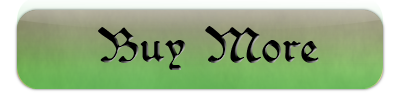
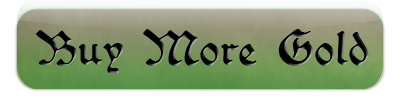
updated store to display available gold and allow purchase of gold

diff --git a/Classes/Views/Inventory/StoreViewController.m b/Classes/Views/Inventory/StoreViewController.m
@@ -11,6 +11,7 @@
 #import "ViewControllerManager.h"
 #import "StoreTopLauncherView.h"
 #import "TouchImageView.h"
+#import "TouchAreaView.h"
 #import "CellUtils.h"
 #import "StoreItemCell.h"
 #import "NavigationLauncherView.h"
@@ -34,6 +35,10 @@
 @synthesize itemsView;
 @synthesize sellImage;
 @synthesize buyImage;
+@synthesize modeView;
+@synthesize goldView;
+@synthesize buyGoldView;
+@synthesize goldLabel;
 @synthesize containerView;
 @synthesize storeTopLauncherView;
 @synthesize storeMode;
@@ -51,10 +56,24 @@
 //-----------------------------------------------------------------------------------------------------------------------------------
 - (id)initWithNibName:(NSString *)nibNameOrNil bundle:(NSBundle *)nibBundleOrNil inView:(UIView*)_containerView {
     if ((self = [super initWithNibName:nibNameOrNil bundle:nibBundleOrNil])) {
+        CGFloat viewWidth =  self.view.frame.size.width;
+        CGFloat viewHeight = self.view.frame.size.height;
         self.containerView = _containerView;
         self.buyImage = [UIImage imageNamed:@"store-buy-button.png"];
         self.sellImage = [UIImage imageNamed:@"store-sell-button.png"];
         self.storeMode = StoreModeBuy;
+        self.goldLabel.font = [UIFont fontWithName:kGLOBAL_FONT size:20.0];
+        CGRect goldFrame = CGRectMake(0.0, 0.0969*viewHeight, 0.3125*viewWidth, 0.1406*viewHeight);
+        self.goldView = [TouchAreaView createWithFrame:goldFrame name:@"gold" andDelegate:self];
+        [self.view addSubview:self.goldView];
+        CGRect buyGoldFrame = CGRectMake(0.6641*viewWidth, 0.0969*viewHeight, 0.3281*viewWidth, 0.1406*viewHeight);
+        self.buyGoldView = [TouchAreaView createWithFrame:buyGoldFrame name:@"buy-gold" andDelegate:self];
+        [self.view addSubview:self.buyGoldView];
+        CGRect modeFrame = CGRectMake(0.3312*viewWidth, 0.1250*viewHeight, 0.3123*viewWidth, 0.0885*viewHeight);
+        self.modeView = [TouchImageView createWithFrame:modeFrame name:@"mode" andDelegate:self];
+        self.modeView.contentMode = UIViewContentModeScaleAspectFit; 
+        self.modeView.image = self.buyImage;
+        [self.view addSubview:self.modeView];
         self.view.frame = self.containerView.frame;
     }
     return self;
@@ -96,15 +115,43 @@
     if ([_name isEqualToString:@"back"]) {
         [self.view removeFromSuperview];
         [[ViewControllerManager instance] showInventoryView:self.containerView];
-    } else if ([_name isEqualToString:@"mode"]) {
+    } 
+}
+
+//===================================================================================================================================
+#pragma mark TouchAreaView Delegate
+
+//-----------------------------------------------------------------------------------------------------------------------------------
+- (void)viewTouched:(TouchAreaView*)touchedView {
+    if ([touchedView.viewName isEqualToString:@"gold"]) {
+        [[ViewControllerManager instance] showGoldView:self.view];
+    } else if ([touchedView.viewName isEqualToString:@"buy-gold"]) {
+        [[ViewControllerManager instance] showGoldView:self.view];
+    }
+}
+
+//===================================================================================================================================
+#pragma mark TouchImageView Delegate
+
+//-----------------------------------------------------------------------------------------------------------------------------------
+- (void)imageTouched:(TouchImageView*)touchedView {
+    if ([touchedView.viewName isEqualToString:@"mode"]) {
         if (self.storeMode == StoreModeBuy) {
             self.storeMode = StoreModeSell;
-            self.storeTopLauncherView.modeLauncher.image = self.sellImage;
+            self.modeView.image = self.sellImage;
         } else {
             self.storeMode = StoreModeBuy;
-            self.storeTopLauncherView.modeLauncher.image = self.buyImage;
+            self.modeView.image = self.buyImage;
         }
     }
+}
+
+//===================================================================================================================================
+#pragma mark GoldViewDelegate 
+
+//-----------------------------------------------------------------------------------------------------------------------------------
+- (void)setGoldValue {
+    self.goldLabel.text = @"999p";
 }
 
 //===================================================================================================================================
@@ -152,7 +199,6 @@
     self.itemsView.separatorColor = [UIColor blackColor];
     [NavigationLauncherView inView:self.view withImageNamed:@"map-navigation-launcher.png" andDelegate:self];
     self.storeTopLauncherView = [StoreTopLauncherView inView:self.view andDelegate:self];
-    self.storeTopLauncherView.modeLauncher.image = self.buyImage;
     [super viewDidLoad];
 }
 
@@ -160,6 +206,7 @@
 - (void)viewWillAppear:(BOOL)animated {
     [self loadAccount];
     [self loadItems];
+    [self setGoldValue];
     [self addXMPPClientDelgate];
     [super viewWillAppear:animated];
 }

diff --git a/Classes/Views/Inventory/StoreViewController.h b/Classes/Views/Inventory/StoreViewController.h
@@ -10,10 +10,13 @@
 #import <UIKit/UIKit.h>
 #import "NavigationLauncherView.h"
 #import "StoreTopLauncherView.h"
+#import "GoldViewController.h"
 
 //-----------------------------------------------------------------------------------------------------------------------------------
 @class AccountModel;
 @class StoreTopLauncherView;
+@class TouchImageView;
+@class TouchAreaView;
 
 //-----------------------------------------------------------------------------------------------------------------------------------
 typedef enum storeMode {
@@ -22,8 +25,12 @@ typedef enum storeMode {
 } StoreModeType;
 
 /////////////////////////////////////////////////////////////////////////////////////////////////////////////////////////////////////
-@interface StoreViewController : UIViewController <UITableViewDelegate, UITableViewDataSource, NavigationLauncherViewDelegate, LauncherViewDelegate> {
+@interface StoreViewController : UIViewController <UITableViewDelegate, UITableViewDataSource, NavigationLauncherViewDelegate, LauncherViewDelegate, GoldViewDelegate> {
     IBOutlet UITableView* itemsView;
+    IBOutlet UILabel* goldLabel;
+    TouchImageView* modeView;
+    TouchAreaView* goldView;
+    TouchAreaView* buyGoldView;    
     UIImage* sellImage;
     UIImage* buyImage;
     UIView* containerView;
@@ -37,6 +44,10 @@ typedef enum storeMode {
 @property (nonatomic, retain) UITableView* itemsView;
 @property (nonatomic, retain) UIImage* sellImage;
 @property (nonatomic, retain) UIImage* buyImage;
+@property (nonatomic, retain) TouchImageView* modeView;
+@property (nonatomic, retain) TouchAreaView* goldView;
+@property (nonatomic, retain) TouchAreaView* buyGoldView;
+@property (nonatomic, retain) UILabel* goldLabel;
 @property (nonatomic, retain) UIView* containerView;
 @property (nonatomic, retain) StoreTopLauncherView* storeTopLauncherView;;
 @property (nonatomic, assign) StoreModeType storeMode;

diff --git a/Classes/Views/Inventory/StoreTopLauncherView.m b/Classes/Views/Inventory/StoreTopLauncherView.m
@@ -21,7 +21,6 @@
 
 //-----------------------------------------------------------------------------------------------------------------------------------
 @synthesize backLauncher;
-@synthesize modeLauncher;
 
 //===================================================================================================================================
 #pragma mark StoreTopLauncherView PrivateAPI
@@ -43,11 +42,6 @@
         CGRect backFrame = CGRectMake(0.0234*viewWidth, 0.0, 0.2109*viewWidth, viewHeight);
         self.backLauncher = [TouchAreaView createWithFrame:backFrame name:@"back" andDelegate:self];
         [self addSubview:self.backLauncher];
-        CGRect modeLauncherFrame = CGRectMake(0.7672*viewWidth, 0.05*viewHeight, 0.2062*viewWidth, 0.6800*viewHeight);
-        self.modeLauncher = [TouchImageView createWithFrame:modeLauncherFrame name:@"mode" andDelegate:self];
-        self.modeLauncher.contentMode = UIViewContentModeScaleToFill; 
-        self.modeLauncher.image = [UIImage imageNamed:@"store-buy-button.png"];
-        [self addSubview:self.modeLauncher];
         [_view addSubview:self];
     }
     return self;

diff --git a/Classes/Views/Inventory/StoreTopLauncherView.h b/Classes/Views/Inventory/StoreTopLauncherView.h
@@ -12,17 +12,14 @@
 
 //-----------------------------------------------------------------------------------------------------------------------------------
 @class TouchAreaView;
-@class TouchImageView;
 
 /////////////////////////////////////////////////////////////////////////////////////////////////////////////////////////////////////
 @interface StoreTopLauncherView : LauncherView {
     TouchAreaView* backLauncher;
-    TouchImageView* modeLauncher;
 }
 
 //-----------------------------------------------------------------------------------------------------------------------------------
 @property (nonatomic, retain) TouchAreaView* backLauncher;
-@property (nonatomic, retain) TouchImageView* modeLauncher;
 
 //-----------------------------------------------------------------------------------------------------------------------------------
 + (id)inView:(UIView*)_view andDelegate:(id<LauncherViewDelegate>)_delegate;

diff --git a/Classes/Views/Inventory/InventoryViewController.m b/Classes/Views/Inventory/InventoryViewController.m
@@ -93,7 +93,7 @@
         self.view.frame = self.containerView.frame;
         self.goldLabel.font = [UIFont fontWithName:kGLOBAL_FONT size:20.0];
         self.healthPotionLabel.font = [UIFont fontWithName:kGLOBAL_FONT size:20.0];
-        CGRect goldFrame = CGRectMake(0.0625*viewWidth, 0.1042*viewHeight, 0.1953*viewWidth, 0.07812*viewHeight);
+        CGRect goldFrame = CGRectMake(0.0, 0.0969*viewHeight, 0.2656*viewWidth, 0.1510*viewHeight);
         self.goldView = [TouchAreaView createWithFrame:goldFrame name:@"gold" andDelegate:self];
         [self.view addSubview:self.goldView];
         CGRect healthPotionFrame = CGRectMake(0.7109*viewWidth, 0.0938*viewHeight, 0.1484*viewWidth, 0.1354*viewHeight);
